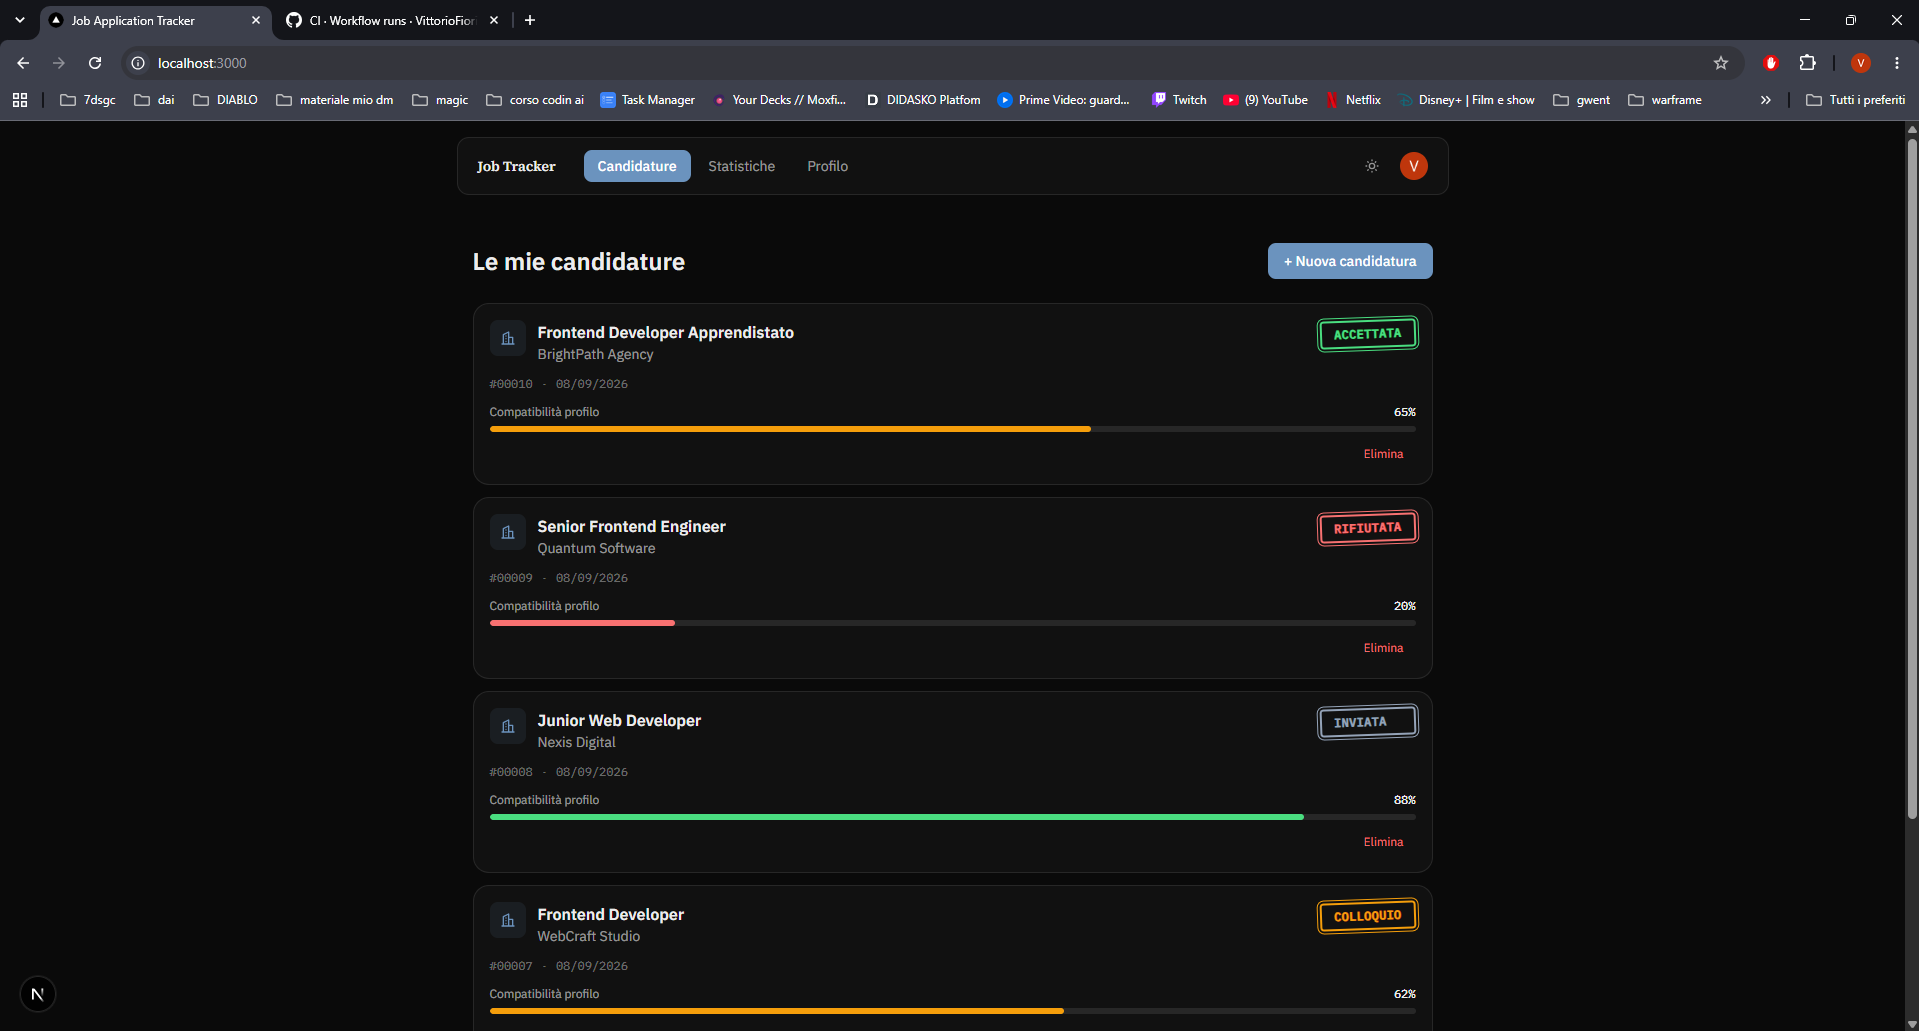
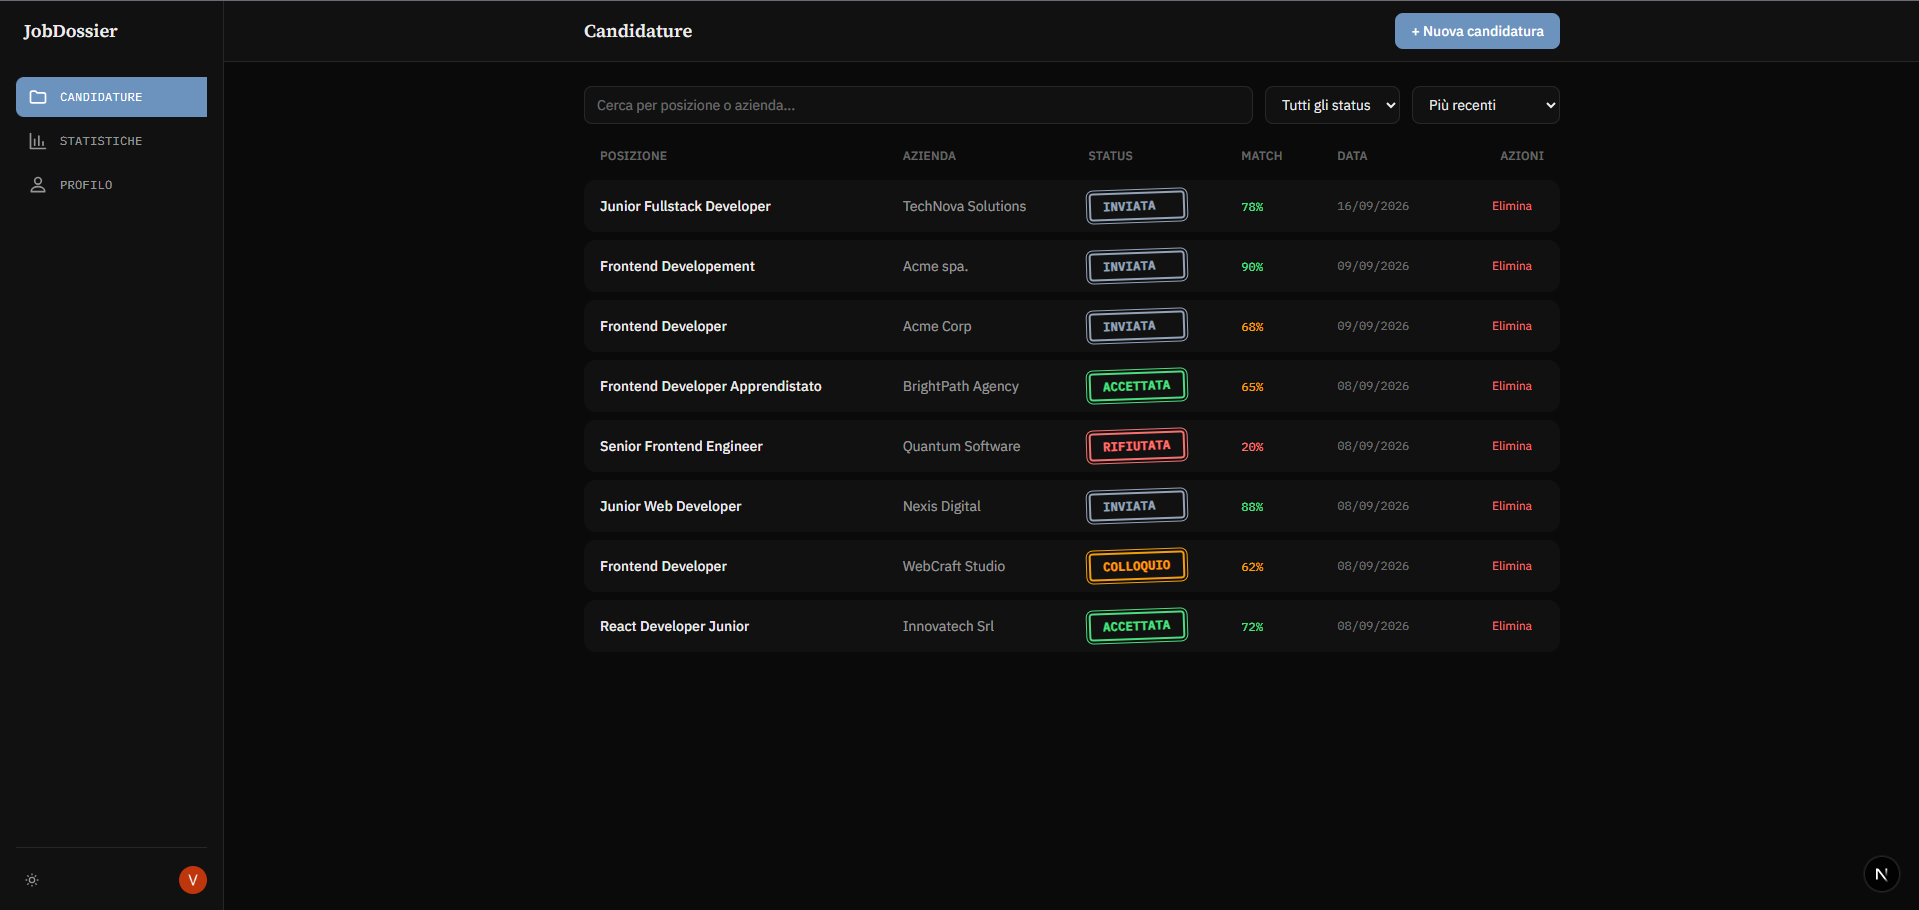
Update README screenshots to reflect the redesigned app
Replaces stale pre-rebrand screenshots with current ones covering
login, candidature, dettaglio, profilo/CV, and statistiche, plus a
mobile view. Contact info in the profile screenshot is redacted.

diff --git a/README.md b/README.md
@@ -18,9 +18,11 @@ A job application tracker with AI-powered CV matching and insights, built with N
 
 ## Screenshots
 
-![Home - dark mode](docs/screenshots/home-dark.png)
-![Home - light mode](docs/screenshots/home-light.png)
-![Statistiche e insight AI](docs/screenshots/stats.png)
+![Candidature](docs/screenshots/home-dark.png)
+![Dettaglio candidatura](docs/screenshots/applications-detail-dark.png)
+![Profilo / CV](docs/screenshots/profile-dark.png)
+![Statistiche e insight AI](docs/screenshots/stats-dark.png)
+![Accesso](docs/screenshots/login-dark.png)
 ![Vista mobile](docs/screenshots/mobile.png)
 
 ## Tech stack
